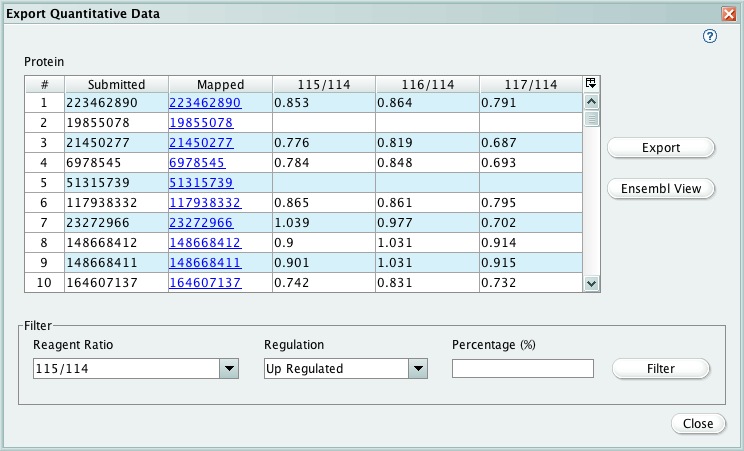
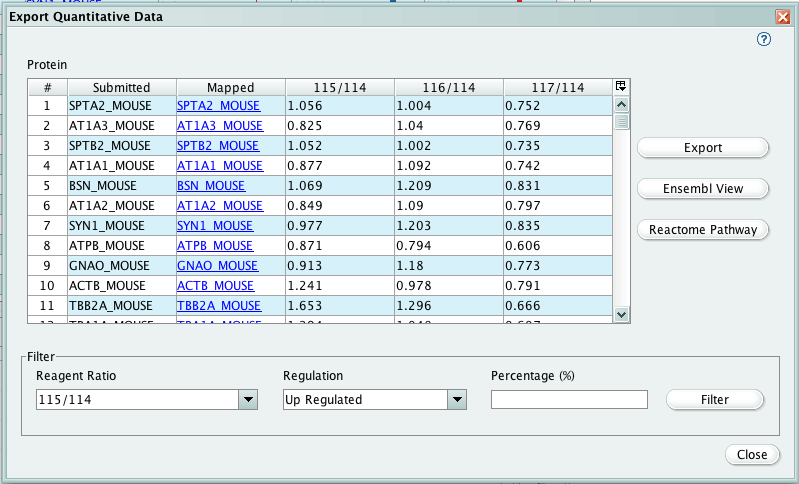
Added documentation for reactome pathway mappings, and enabled JavaHelp to open links in native browser.

diff --git a/pride-inspector/branches/development/src/main/resources/help/html/usage/export_quant.html b/pride-inspector/branches/development/src/main/resources/help/html/usage/export_quant.html
@@ -37,6 +37,7 @@
             <li><a href="#export">Export</a> - export filtered results into an tab-delimited file</li>
             <li><a href="#ensembl">Esemble View</a> - show all the filtered proteins in the Ensembl karyotype viewer.
             </li>
+            <li><a href="#reactome">Reactome Pathway</a> - show all the filtered proteins with their quantitative ratios in the Reactome pathways.</li>
         </ul>
         </p>
         <br>
@@ -80,13 +81,24 @@
             </div>
 
             <div class="piProcedureSteps">
-                <a name="spectrum"></a>
+                <a name="ensembl"></a>
 
                 <h3>Ensembl Viewer</h3>
 
                 <p>
                     This will map all the proteins in the protein table to the Ensembl Karyotype Viewer,
                     here is an <a href="http://www.ensembl.org/Mus_musculus/Location/Genome?type=ProteinAlignFeature;id=ATP5J_MOUSE;id=PROF2_MOUSE;id=COR1A_MOUSE;id=CHCH2_MOUSE;id=ECHA_MOUSE;id=ABCD3_MOUSE;id=MAL2_MOUSE">example</a>.
+                </p>
+            </div>
+
+            <div class="piProcedureSteps">
+                <a name="reactome"></a>
+
+                <h3>Reactome Pathway</h3>
+
+                <p>
+                    This will map all the proteins in the protein table to the Reactome pathways, please note that the time to calculate the results depends on the number of proteins and their quantitative values.
+                    The same feature can be found on <a href="http://www.reactome.org/ReactomeGWT/entrypoint.html#ExpressionDataUploadPage">Reactome's website</a>.
                 </p>
             </div>
         </div>

diff --git a/pride-inspector/branches/development/src/main/java/uk/ac/ebi/pride/gui/help/ExternalLinkContentViewerUI.java b/pride-inspector/branches/development/src/main/java/uk/ac/ebi/pride/gui/help/ExternalLinkContentViewerUI.java
@@ -1,0 +1,43 @@
+package uk.ac.ebi.pride.gui.help;
+
+import uk.ac.ebi.pride.gui.url.HttpUtilities;
+
+import javax.help.JHelpContentViewer;
+import javax.help.plaf.basic.BasicContentViewerUI;
+import javax.swing.*;
+import javax.swing.event.HyperlinkEvent;
+import javax.swing.plaf.ComponentUI;
+import java.net.URL;
+
+/**
+ * @author Rui Wang
+ * @version $Id$
+ */
+public class ExternalLinkContentViewerUI extends BasicContentViewerUI{
+
+    public ExternalLinkContentViewerUI(JHelpContentViewer b) {
+        super(b);
+    }
+
+    public static ComponentUI createUI(JComponent x) {
+        return new ExternalLinkContentViewerUI((JHelpContentViewer) x);
+    }
+
+    @Override
+    public void hyperlinkUpdate(HyperlinkEvent e) {
+        if(e.getEventType()==HyperlinkEvent.EventType.ACTIVATED){
+            System.out.println("called");
+            try{
+                URL u = e.getURL();
+                if(u.getProtocol().equalsIgnoreCase("mailto")||u.getProtocol().equalsIgnoreCase("http")||u.getProtocol().equalsIgnoreCase("ftp")){
+                    HttpUtilities.openURL(u.toString());
+                    return;
+                }
+            }
+            catch(Throwable t){
+
+            }
+        }
+        super.hyperlinkUpdate(e);
+    }
+}

diff --git a/pride-inspector/branches/development/src/main/java/uk/ac/ebi/pride/gui/PrideInspectorContext.java b/pride-inspector/branches/development/src/main/java/uk/ac/ebi/pride/gui/PrideInspectorContext.java
@@ -14,6 +14,7 @@ import uk.ac.ebi.pride.gui.task.TaskManager;
 import javax.help.HelpBroker;
 import javax.help.HelpSet;
 import javax.help.HelpSetException;
+import javax.help.SwingHelpUtilities;
 import javax.swing.*;
 import java.net.URL;
 import java.util.Collections;
@@ -399,6 +400,7 @@ public class PrideInspectorContext extends DesktopContext {
 
     private void createHelp() {
         try {
+            SwingHelpUtilities.setContentViewerUI("uk.ac.ebi.pride.gui.help.ExternalLinkContentViewerUI");
             ClassLoader cl = PrideInspectorContext.class.getClassLoader();
             URL url = HelpSet.findHelpSet(cl, this.getProperty("help.main.set"));
             mainHelpSet = new HelpSet(cl, url);
